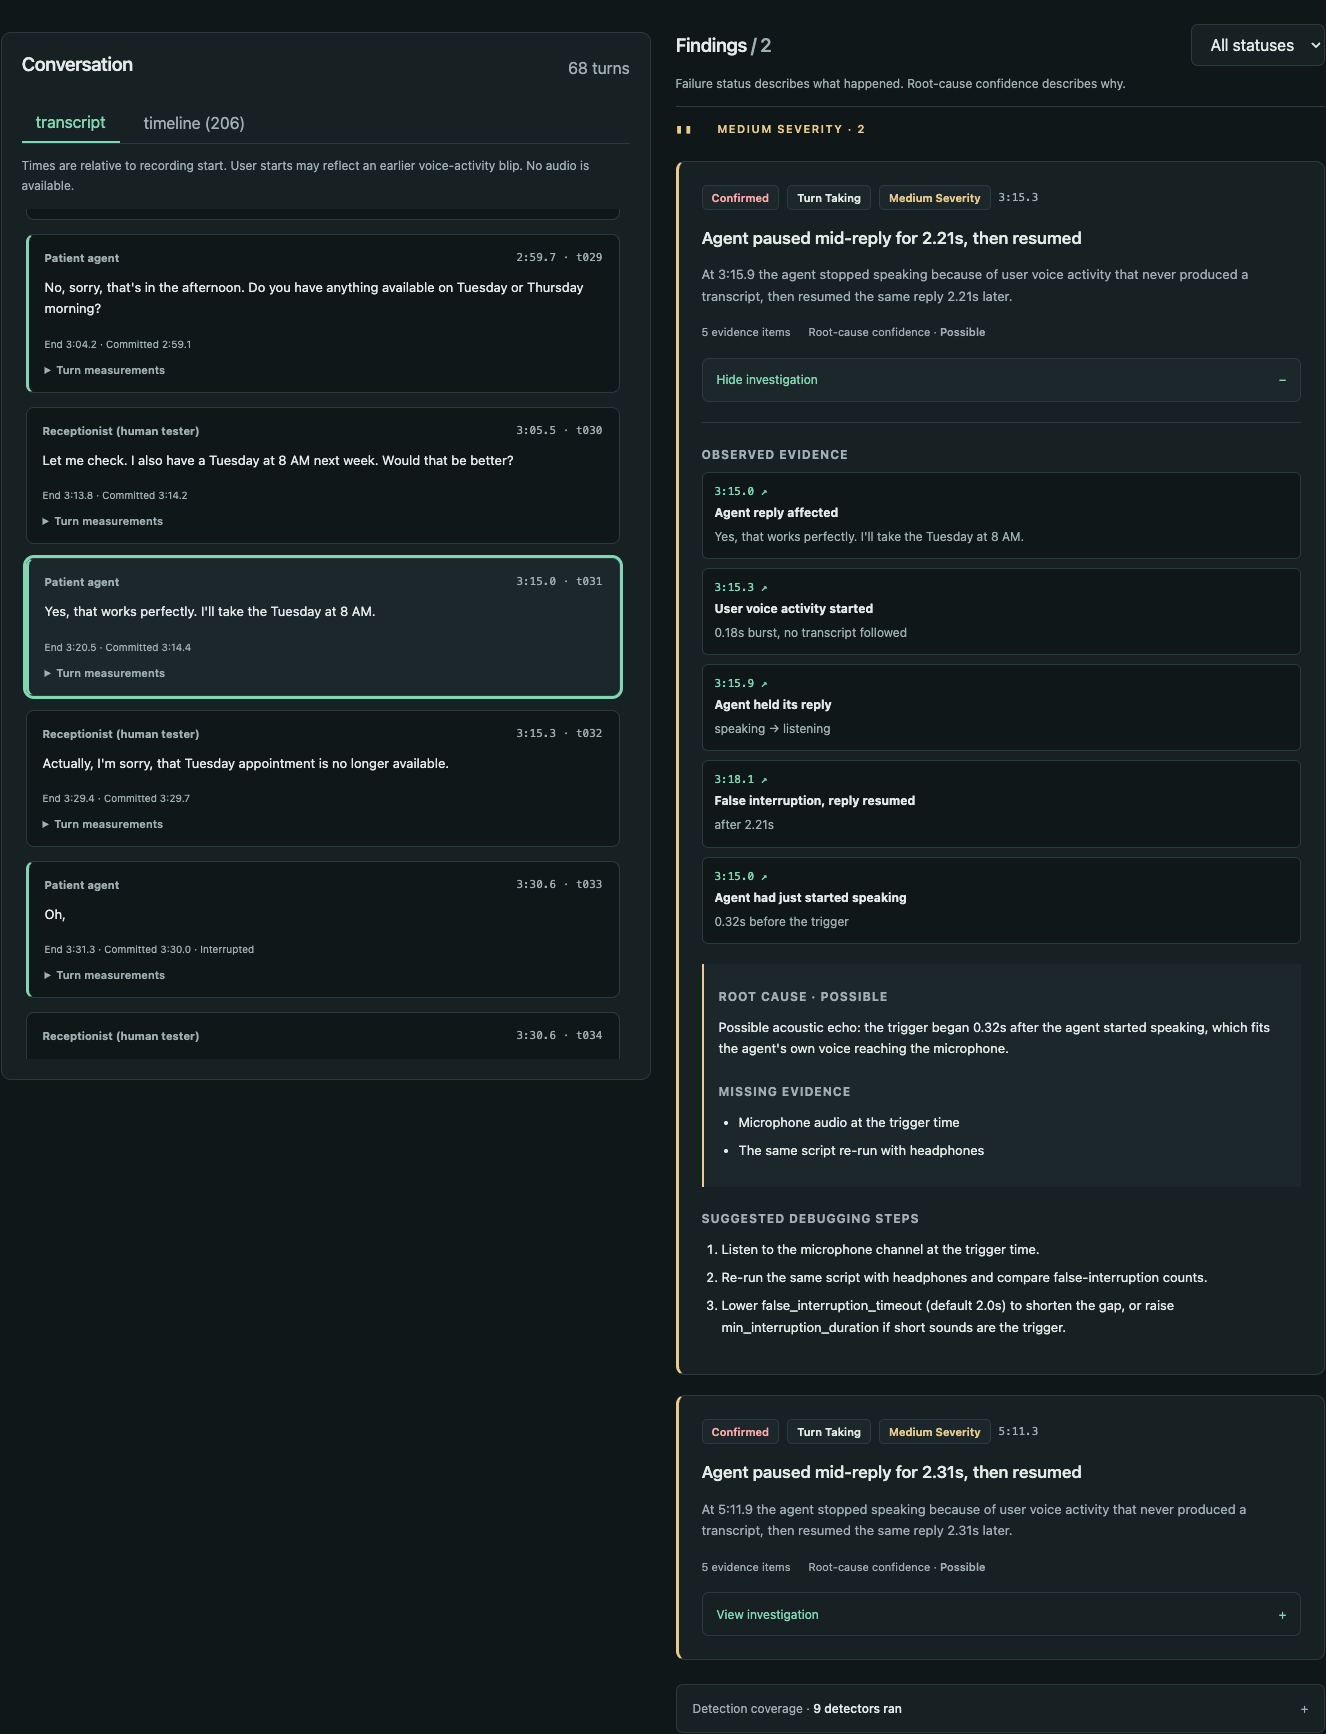
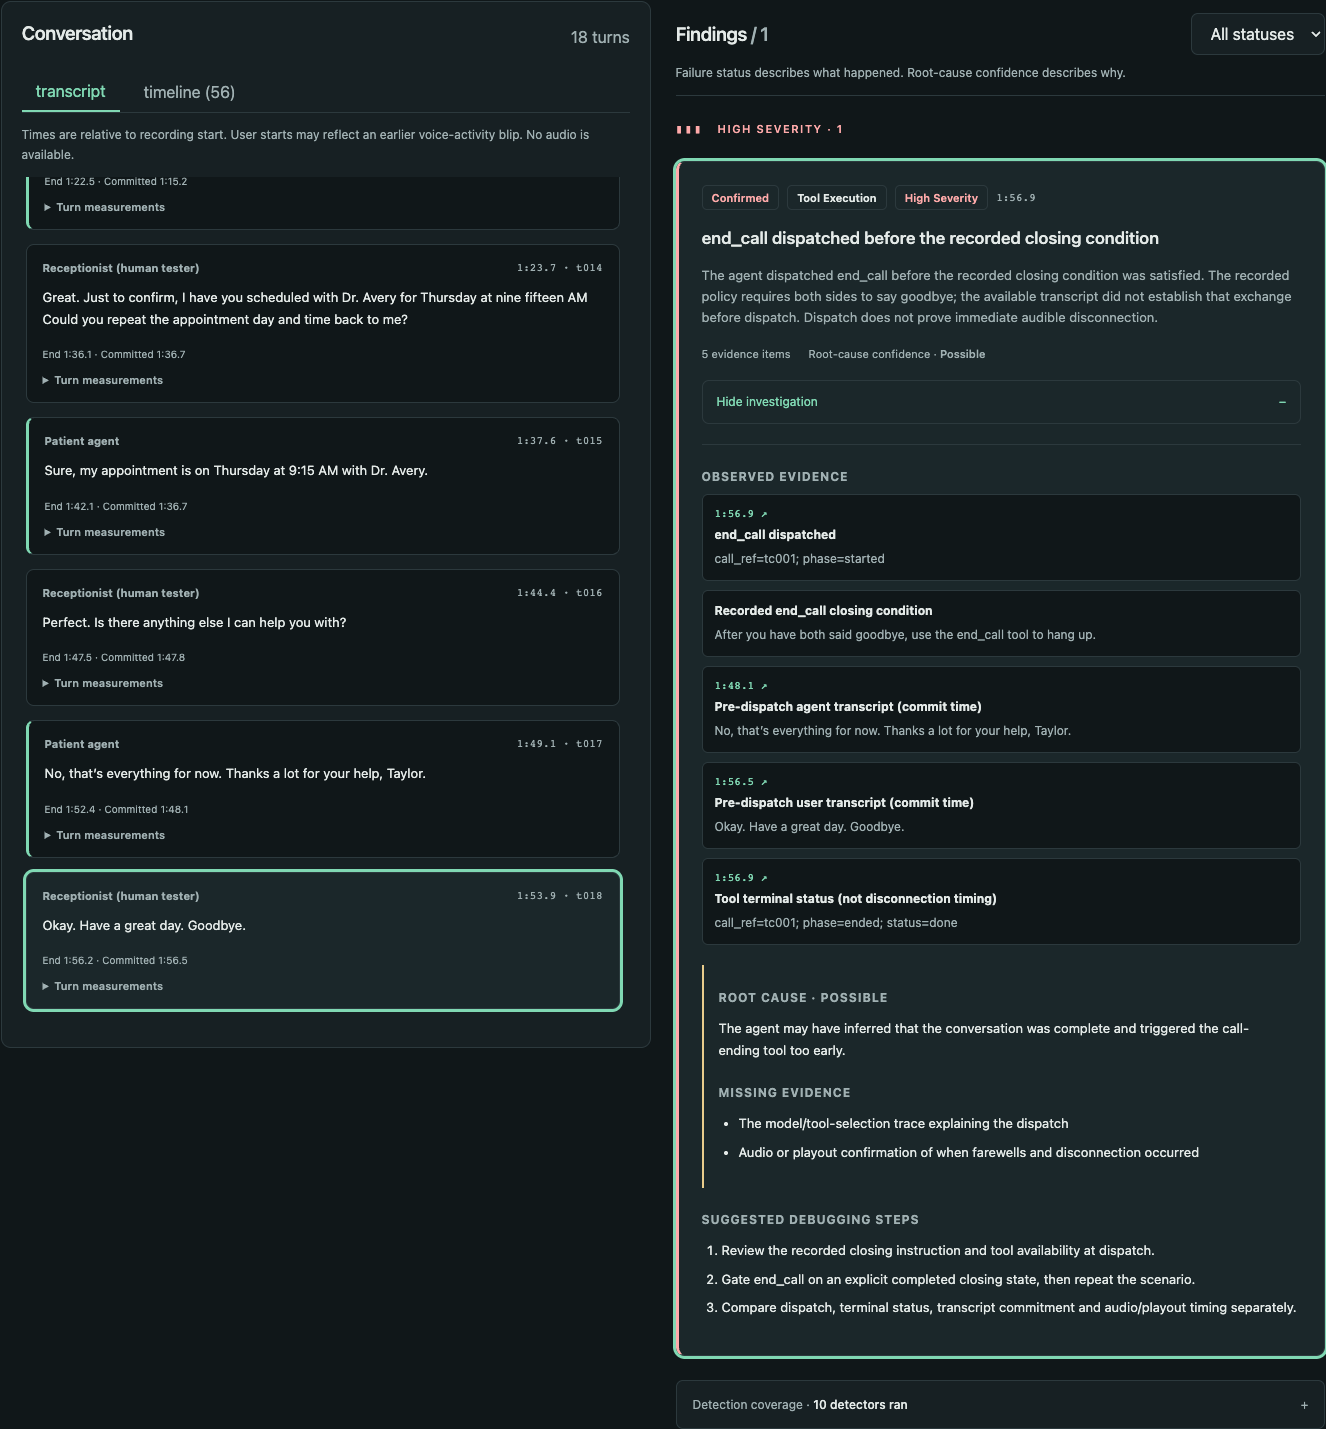
Refresh README screenshots for current AgentDoctor UI

diff --git a/README.md b/README.md
@@ -8,18 +8,37 @@ AgentDoctor imports [LiveKit Agents](https://docs.livekit.io/agents/) session re
 
 ## Screenshots
 
-These screenshots illustrate the original seven-session demo; the current dataset contains 11 sessions and includes Failure Fingerprints navigation.
+Current product views using the 11-session sanitized recorded dataset.
 
-### Evidence-first investigation
+### Evidence-first Investigation
 
-![Investigation view with timestamped conversation evidence and an expanded diagnostic finding](docs/screenshots/investigation.png)
+![Investigation showing a highlighted goodbye transcript turn and an expanded premature end_call diagnosis with policy evidence and possible root cause](docs/screenshots/investigation.png)
 
-Trace a finding to the exact conversation evidence, with root-cause confidence, missing evidence, and practical debugging steps kept explicit.
+Trace confirmed premature `end_call` dispatch to the recorded closing policy and transcript, with root-cause uncertainty, missing evidence, and debugging steps kept explicit.
 
-| Sessions dashboard | Session comparison |
-|---|---|
-| ![Sessions dashboard showing pipeline details, latency metrics, and confirmed versus suspected findings](docs/screenshots/sessions.png) | ![Compare view showing pipeline differences, reported metrics, and comparison caveats](docs/screenshots/compare.png) |
-| Scan session health and select two conversations to compare. | Inspect pipeline differences and observed metrics, with clear limits on what one run can prove. |
+### Dashboard / Sessions overview
+
+![Sessions dashboard showing 11 analyzed sessions, 27 confirmed findings, 15 suspected findings, and pipeline cards](docs/screenshots/sessions.png)
+
+Scan 11 recorded sessions, pipeline configurations, and 42 findings: 27 confirmed observations and 15 suspected failures.
+
+### Failure Fingerprints overview
+
+![Failure Fingerprints overview showing eight recurring patterns, 39 of 42 findings grouped, three ungrouped findings, and recurrence limitations](docs/screenshots/fingerprints.png)
+
+Explore eight recurring observed patterns, with 39 of 42 findings grouped. Repeated behavior does not establish a shared root cause or independent reproduction.
+
+### Premature end_call fingerprint detail
+
+![Premature end_call fingerprint showing three findings across three sessions, Nano and Recommended pipelines, representative dispatch evidence, and causality caveats](docs/screenshots/fingerprint-end-call.png)
+
+Three findings across three recorded sessions share an observed dispatch pattern. The role-confounded representative and causality limits remain explicit.
+
+### Compare
+
+![Recommended and Nano session comparison showing shared STT and TTS models, different LLMs, observed metrics, and model-superiority caveats](docs/screenshots/compare.png)
+
+Compare recorded Recommended and Nano runs, models, and metrics. The Recommended run includes timing anomalies; these session differences do not establish model superiority.
 
 ## The problem
 
